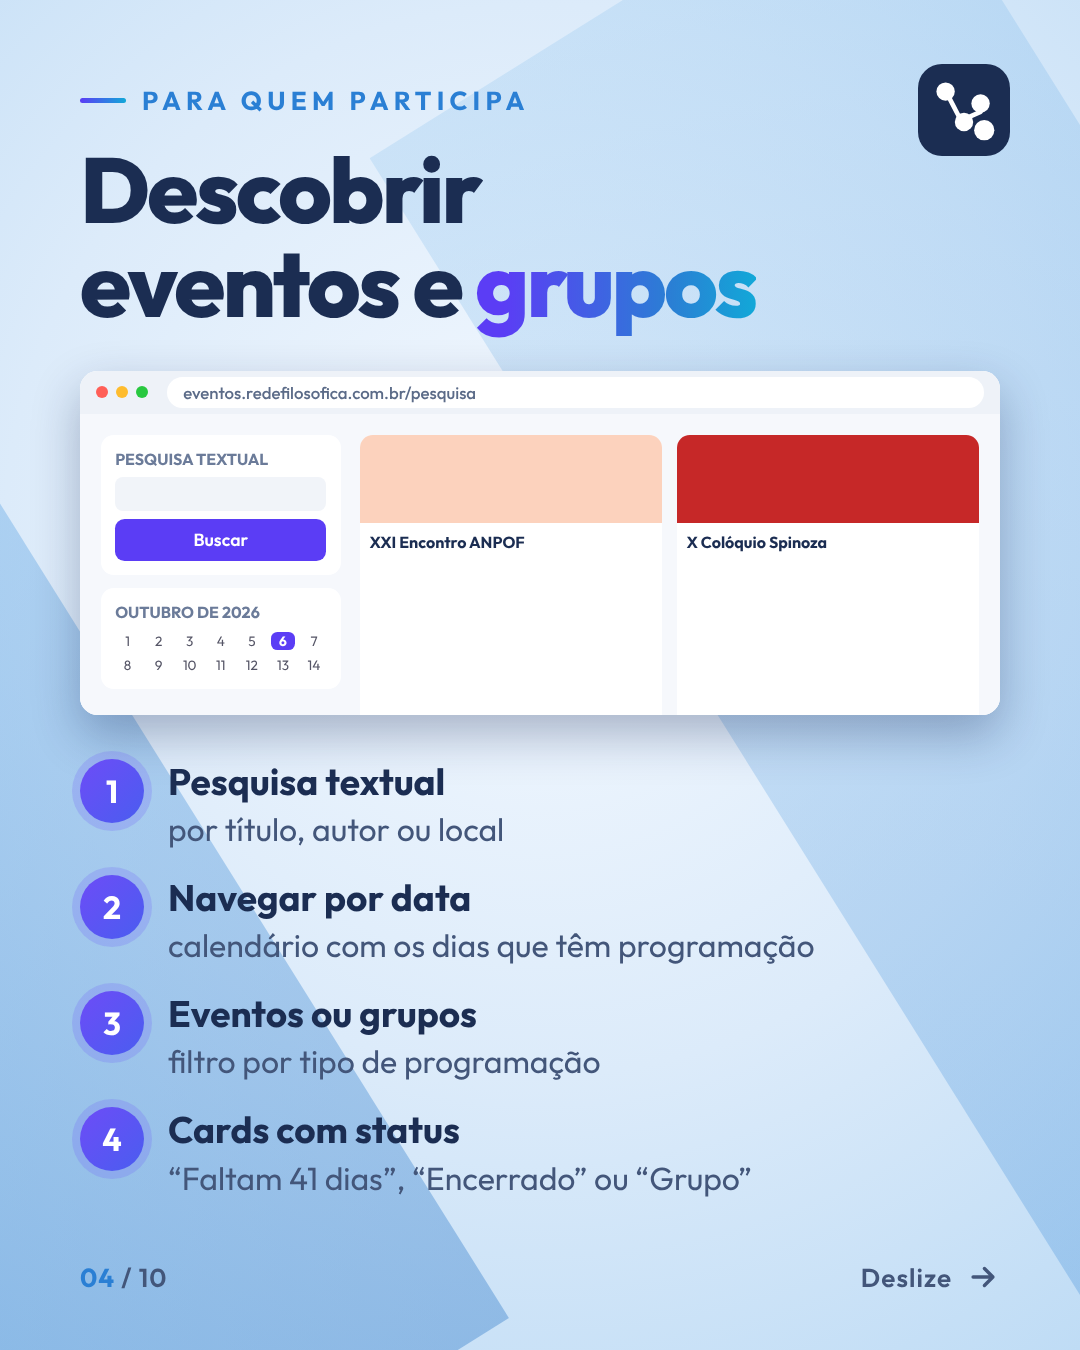
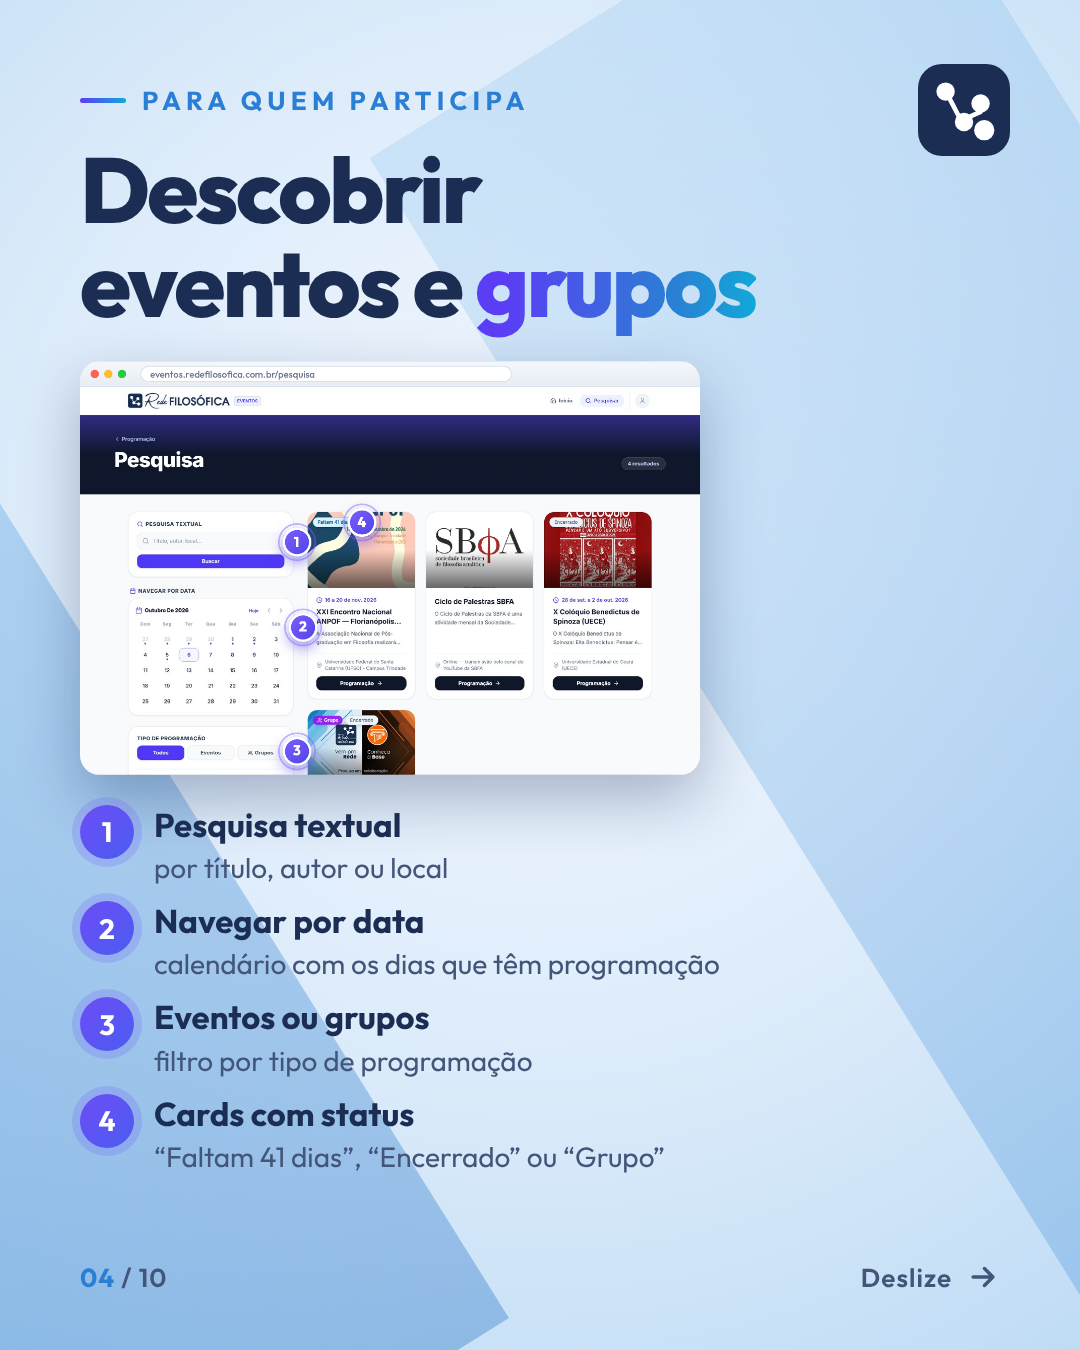
Use real screenshots from the PDF in Instagram cards
Claude-Session: https://claude.ai/code/session_01Jz58JXarE3aMUwPr4sMEcJ

Changed region(s): [[0.0611, 0.2489, 0.9472, 0.9022], [0.6111, 0.8711, 0.6722, 0.9022]]

diff --git a/rede-filosofica-instagram/cards.html b/rede-filosofica-instagram/cards.html
@@ -59,6 +59,7 @@ h2{font-size:92px;margin-top:26px}
 .bullets li{display:flex;gap:24px;align-items:flex-start;font-size:32px;line-height:1.25;color:var(--muted)}
 .bullets li b{color:var(--ink);font-weight:700;display:block;font-size:37px;margin-bottom:4px}
 .dark .bullets li{color:#b9c8e6}.dark .bullets li b{color:#fff}
+.sm li{font-size:28px!important;gap:20px!important}.sm li b{font-size:33px!important}.sm .num{width:54px;height:54px;font-size:28px}
 .bullets .dot{margin-top:18px;width:18px;height:18px}
 </style>
 </head>
@@ -83,20 +84,7 @@ h2{font-size:92px;margin-top:26px}
     <div class="eyebrow" style="justify-content:center;margin-top:36px">Rede Filosófica</div>
     <h1 style="font-size:130px;margin-top:20px;letter-spacing:-.04em;line-height:.98">Plataforma<br>de <span class="g">Eventos</span></h1>
     <p style="font-size:40px;font-weight:500;color:#2d4274;margin-top:34px">A pesquisa acadêmica de Filosofia<br>em tempo real</p>
-    <!-- phone + browser -->
-    <div style="position:absolute;left:150px;right:150px;top:830px;height:480px">
-      <div class="win" style="position:absolute;left:230px;right:0;top:20px;height:560px;">
-        <div class="bar"><i></i><i></i><i></i><span>eventos.redefilosofica.com.br</span></div>
-        <div style="background:linear-gradient(180deg,#171d5c,#0d1240);height:130px;padding:34px 40px;color:#fff;text-align:left"><div class="mini" style="color:#9aa8e0">Programação</div><div style="font-size:42px;font-weight:700">Pesquisa</div></div>
-      </div>
-      <div style="position:absolute;left:0;top:0;width:290px;height:600px;border:10px solid #1b2d52;border-radius:46px;background:#fff;box-shadow:0 26px 60px rgba(10,30,80,.4);overflow:hidden;text-align:left;padding:20px">
-        <div style="font-weight:800;font-size:22px;color:var(--navy)">Rede FILOSÓFICA <span class="tag" style="font-size:12px;padding:3px 8px">EVENTOS</span></div>
-        <div style="margin-top:20px;border-radius:14px;background:#fcd2bd;height:150px;position:relative;overflow:hidden"><div style="position:absolute;left:-30px;top:20px;width:130px;height:120px;border-radius:50%;background:#1f4e6e"></div><div style="position:absolute;right:12px;top:24px;font-size:13px;font-weight:700;color:#1d4e3c;text-align:right">16 a 20 de<br>novembro de 2026</div></div>
-        <div class="tag" style="margin-top:14px;font-size:14px;background:#dff2fb;color:#14688f">Faltam 41 dias</div>
-        <div style="font-weight:800;font-size:22px;line-height:1.15;margin-top:10px">XXI Encontro Nacional ANPOF — Florianópolis 2026</div>
-      </div>
-    </div>
-    
+    <img src="src/hero.png" style="position:absolute;left:190px;top:800px;width:700px">
   </div>
 </section>
 
@@ -126,15 +114,15 @@ h2{font-size:92px;margin-top:26px}
     <h2>Três formatos,<br>uma mesma<br><span class="g">plataforma</span></h2>
     <div style="display:flex;flex-direction:column;gap:24px;margin-top:56px">
       <div class="panel" style="display:flex;gap:34px;align-items:center;padding:28px 36px">
-        <div style="width:230px;height:170px;border-radius:22px;background:#fcd2bd;position:relative;overflow:hidden;flex:none"><div style="position:absolute;left:-40px;top:30px;width:150px;height:150px;border-radius:50%;background:#1f4e6e"></div><div style="position:absolute;right:14px;top:18px;font-size:17px;font-weight:700;color:#1d4e3c;text-align:right">16 a 20 nov.<br>UFSC</div></div>
+        <img src="src/t1.png" style="width:230px;height:170px;object-fit:cover;border-radius:22px;flex:none">
         <div><span class="pill" style="background:#f59e0b">Evento</span><h3 style="font-size:40px;font-weight:700;margin:12px 0 6px;line-height:1.1">XXI Encontro Nacional ANPOF</h3><p style="font-size:29px;color:var(--muted);line-height:1.25"><b class="g" style="font-size:40px">53</b> atividades em 5 dias, em Florianópolis</p></div>
       </div>
       <div class="panel" style="display:flex;gap:34px;align-items:center;padding:28px 36px">
-        <div style="width:230px;height:170px;border-radius:22px;background:#f3f3f3;display:grid;place-items:center;flex:none;font-family:Georgia,serif;font-size:50px;white-space:nowrap;color:#222">SB<span style="color:#b01c1c">ϕ</span>A</div>
+        <img src="src/t2.png" style="width:230px;height:170px;object-fit:cover;border-radius:22px;flex:none">
         <div><span class="pill" style="background:#12a8d8">Ciclo contínuo</span><h3 style="font-size:40px;font-weight:700;margin:12px 0 6px;line-height:1.1">Ciclo de Palestras SBFA</h3><p style="font-size:29px;color:var(--muted);line-height:1.25">Online no YouTube · <b class="g" style="font-size:40px">46</b> palestras ao longo de anos</p></div>
       </div>
       <div class="panel" style="display:flex;gap:34px;align-items:center;padding:28px 36px">
-        <div style="width:230px;height:170px;border-radius:22px;background:linear-gradient(90deg,#cfe3f7 50%,#1c1c1c 50%);display:grid;place-items:center;flex:none"><svg style="width:70px;height:70px"><use href="#lg"/></svg></div>
+        <img src="src/t3.png" style="width:230px;height:170px;object-fit:cover;border-radius:22px;flex:none">
         <div><span class="pill" style="background:#7c3aed">Grupo</span><h3 style="font-size:40px;font-weight:700;margin:12px 0 6px;line-height:1.1">Grupo de Colaboração</h3><p style="font-size:29px;color:var(--muted);line-height:1.25">Online · Google Meet · <b class="g" style="font-size:40px">6</b> membros e inscrição com voucher</p></div>
       </div>
     </div>
@@ -148,22 +136,8 @@ h2{font-size:92px;margin-top:26px}
   <div class="in">
     <div class="eyebrow">Para quem participa</div>
     <h2>Descobrir<br>eventos e <span class="g">grupos</span></h2>
-    <div class="win" style="zoom:.8;margin-top:50px;height:430px">
-      <div class="bar"><i></i><i></i><i></i><span>eventos.redefilosofica.com.br/pesquisa</span></div>
-      <div style="display:flex;gap:24px;padding:26px;background:#f6f8fc;height:100%">
-        <div style="width:300px;display:flex;flex-direction:column;gap:16px">
-          <div style="background:#fff;border-radius:16px;padding:18px"><div class="mini" style="font-weight:700">PESQUISA TEXTUAL</div><div style="background:#f1f4f9;border-radius:10px;height:42px;margin:10px 0"></div><div class="btnp" style="width:100%;text-align:center">Buscar</div></div>
-          <div style="background:#fff;border-radius:16px;padding:18px"><div class="mini" style="font-weight:700">OUTUBRO DE 2026</div>
-            <div style="display:grid;grid-template-columns:repeat(7,1fr);gap:8px;margin-top:12px;font-size:17px;text-align:center;color:#556">
-              <span>1</span><span>2</span><span>3</span><span>4</span><span>5</span><b style="background:#5b3df5;color:#fff;border-radius:8px">6</b><span>7</span><span>8</span><span>9</span><span>10</span><span>11</span><span>12</span><span>13</span><span>14</span></div></div>
-        </div>
-        <div style="flex:1;display:grid;grid-template-columns:1fr 1fr;gap:18px">
-          <div style="background:#fff;border-radius:16px;overflow:hidden"><div style="height:110px;background:#fcd2bd"></div><div style="padding:12px;font-weight:700;font-size:20px">XXI Encontro ANPOF</div></div>
-          <div style="background:#fff;border-radius:16px;overflow:hidden"><div style="height:110px;background:#c62828"></div><div style="padding:12px;font-weight:700;font-size:20px">X Colóquio Spinoza</div></div>
-        </div>
-      </div>
-    </div>
-    <ul class="bullets" style="gap:26px;margin-top:44px">
+    <img src="src/search.png" style="width:620px;margin-top:30px;border-radius:20px;box-shadow:0 24px 60px rgba(10,30,80,.3);display:block">
+    <ul class="bullets sm" style="gap:16px;margin-top:30px">
       <li><span class="num">1</span><span><b>Pesquisa textual</b>por título, autor ou local</span></li>
       <li><span class="num">2</span><span><b>Navegar por data</b>calendário com os dias que têm programação</span></li>
       <li><span class="num">3</span><span><b>Eventos ou grupos</b>filtro por tipo de programação</span></li>
@@ -179,21 +153,13 @@ h2{font-size:92px;margin-top:26px}
   <div class="in">
     <div class="eyebrow">Capa do evento ou grupo</div>
     <h2>Toda a informação<br>em <span class="g">uma página</span></h2>
-    <div class="win" style="zoom:.8;margin-top:48px">
-      <div class="bar"><i></i><i></i><i></i><span>eventos.redefilosofica.com.br/e/xxi-encontro-nacional-anpof</span></div>
-      <div style="padding:26px 30px;background:#f6f8fc">
-        <div style="background:#fff;border-radius:16px;padding:16px;display:flex;gap:10px;font-size:20px;font-weight:600"><span class="btnp" style="padding:8px 18px">Início</span><span style="padding:8px 18px">Programação</span><span style="padding:8px 18px">Cronograma</span></div>
-        <div style="background:#fff;border-radius:16px;margin-top:16px;padding:22px;display:flex;gap:22px;align-items:center">
-          <div style="width:150px;height:150px;border-radius:16px;background:#fcd2bd;position:relative;overflow:hidden;flex:none"><div style="position:absolute;left:-30px;top:30px;width:100px;height:100px;border-radius:50%;background:#1f4e6e"></div></div>
-          <div><span class="tag" style="background:#dff2fb;color:#14688f">Faltam 41 dias</span><div style="font-size:30px;font-weight:800;line-height:1.1;margin:10px 0 6px">XXI Encontro Nacional ANPOF — Florianópolis 2026</div><div class="mini">16 a 20 nov. 2026 · UFSC — Campus Trindade</div></div>
-        </div>
-        <div style="background:#fff;border-radius:16px;margin-top:16px;padding:18px 22px;display:flex;justify-content:space-between;align-items:center"><div><span class="tag">Próxima atividade</span><div style="font-size:28px;font-weight:700;margin-top:6px">Credenciamento</div></div><span class="btnp">Ver detalhes</span></div>
-      </div>
-    </div>
-    <ul class="bullets" style="gap:26px;margin-top:48px">
-      <li><span class="num">1</span><span><b>Identidade do evento</b>logomarca, título, organização, data e local</span></li>
-      <li><span class="num">2</span><span><b>Contagem regressiva e próxima atividade</b>com acesso direto aos detalhes</span></li>
-      <li><span class="num">3</span><span><b>Sobre e informações</b>descrição, endereço, links e arquivos</span></li>
+    <img src="src/capa.png" style="width:540px;margin-top:30px;border-radius:20px;box-shadow:0 24px 60px rgba(10,30,80,.3);display:block">
+    <ul class="bullets sm" style="gap:16px;margin-top:30px">
+      <li><span class="num">1</span><span><b>Navegação interna</b>Início, Programação, Cronograma e Inscrição</span></li>
+      <li><span class="num">2</span><span><b>Identidade do evento</b>logomarca, título, organização, data e local</span></li>
+      <li><span class="num">3</span><span><b>Contagem regressiva</b>“Faltam 41 dias”</span></li>
+      <li><span class="num">4</span><span><b>Próxima atividade</b>em destaque, com acesso direto aos detalhes</span></li>
+      <li><span class="num">5</span><span><b>Sobre e informações</b>descrição, endereço, links e arquivos</span></li>
     </ul>
     <div class="foot"><span><b>05</b> / 10</span><span class="swipe">Deslize <svg><use href="#arrow"/></svg></span></div>
   </div>
@@ -205,25 +171,12 @@ h2{font-size:92px;margin-top:26px}
   <div class="in">
     <div class="eyebrow">Programação e cronograma</div>
     <h2>Filtros que<br>ajudam a <span class="g">escolher</span></h2>
-    <div class="win" style="zoom:.8;margin-top:48px">
-      <div class="bar"><i></i><i></i><i></i><span>Cronograma · Semana</span></div>
-      <div style="padding:22px 26px;background:#fff">
-        <div style="display:flex;gap:14px;margin-bottom:18px">
-          <span class="btnp" style="padding:10px 20px">16 nov</span><span class="tag" style="background:#f1f4f9;color:#445">17</span><span class="tag" style="background:#f1f4f9;color:#445">18</span><span class="tag" style="background:#f1f4f9;color:#445">19</span><span class="tag" style="background:#f1f4f9;color:#445">20</span>
-        </div>
-        <div style="display:grid;grid-template-columns:repeat(5,1fr);gap:12px;height:250px">
-          <div style="background:#7c3aed;border-radius:10px;color:#fff;font-size:18px;padding:10px;font-weight:600;display:flex;align-items:end">Credenciamento</div>
-          <div style="display:flex;flex-direction:column;gap:12px"><div style="background:#7c3aed;border-radius:10px;height:150px;color:#fff;font-size:17px;padding:10px;font-weight:600">Encontros de GTs</div></div>
-          <div style="background:#7c3aed;border-radius:10px;height:190px;color:#fff;font-size:17px;padding:10px;font-weight:600">Minicurso: Realismo…</div>
-          <div style="background:#7c3aed;border-radius:10px;height:110px;color:#fff;font-size:17px;padding:10px;font-weight:600">Reunião Anpof-Capes</div>
-          <div style="background:#e11d48;border-radius:10px;height:70px;margin-top:70px;color:#fff;font-size:17px;padding:10px;font-weight:600">Conferência</div>
-        </div>
-      </div>
-    </div>
-    <ul class="bullets" style="gap:26px;margin-top:48px">
+    <img src="src/prog.png" style="width:620px;margin-top:30px;border-radius:20px;box-shadow:0 24px 60px rgba(10,30,80,.3);display:block">
+    <ul class="bullets sm" style="gap:16px;margin-top:30px">
       <li><span class="num">1</span><span><b>Busca e filtros</b>texto livre, categorias, roteiros e curtidas</span></li>
-      <li><span class="num">2</span><span><b>Dia, semana ou mês</b>três escalas para ver o evento todo ou só o seu percurso</span></li>
-      <li><span class="num">3</span><span><b>Curtir, lembrar, adicionar</b>monte o seu roteiro personalizado</span></li>
+      <li><span class="num">2</span><span><b>Um dia de cada vez</b>paginação por dia do evento</span></li>
+      <li><span class="num">3</span><span><b>Cartão da atividade</b>horário, categoria, título e descrição</span></li>
+      <li><span class="num">4</span><span><b>Curtir, lembrar, adicionar</b>monte o seu roteiro personalizado</span></li>
     </ul>
     <div class="foot"><span><b>06</b> / 10</span><span class="swipe">Deslize <svg><use href="#arrow"/></svg></span></div>
   </div>
@@ -235,24 +188,9 @@ h2{font-size:92px;margin-top:26px}
   <div class="in">
     <div class="eyebrow">Em qualquer tela</div>
     <h2>A mesma<br>experiência<br>no <span class="g">celular</span></h2>
-    <div style="display:flex;gap:34px;margin-top:56px;justify-content:center;align-items:flex-start">
-      <!-- phone A: atividade -->
-      <div style="width:400px;height:640px;border:12px solid #0b1430;border-radius:54px;background:#fff;overflow:hidden;box-shadow:0 0 0 3px #2b3d6e,0 30px 70px rgba(0,0,0,.5);color:var(--ink);padding:26px">
-        <span class="tag">Palestra</span> <span class="tag" style="background:#ffe3e8;color:#c4113b">Online</span>
-        <div style="font-size:27px;font-weight:800;line-height:1.15;margin:16px 0">Santiago Echeverri — “El disyuntivismo epistemológico y el problema de la inducción”</div>
-        <div style="background:#f3f5fa;border-radius:16px;padding:16px 18px;font-size:19px;line-height:1.5;color:#445"><b>5 de outubro de 2026, 18h às 20h</b><br>Online — YouTube da SBFA<br>Palestrante: Santiago Echeverri (UNAM)</div>
-        <div style="background:#ffe9ee;border-radius:18px;padding:18px;margin-top:22px"><div style="font-size:18px;color:#a3103a;font-weight:600">Transmissão/Sala Online</div><div style="background:#e11d48;color:#fff;border-radius:12px;text-align:center;padding:14px;font-weight:700;font-size:22px;margin-top:10px">Participar/Assistir</div></div>
-      </div>
-      <!-- phone B: inscrição -->
-      <div style="width:400px;height:640px;border:12px solid #0b1430;border-radius:54px;background:#fff;overflow:hidden;box-shadow:0 0 0 3px #2b3d6e,0 30px 70px rgba(0,0,0,.5);color:var(--ink);padding:26px;margin-top:60px">
-        <span class="tag" style="background:#dcf7ea;color:#0a7a4d">Vagas disponíveis</span>
-        <div style="font-size:30px;font-weight:800;margin:20px 0 6px">Formulário de Inscrição</div>
-        <div class="mini" style="margin-bottom:18px">Preencha os dados para gerar seu voucher.</div>
-        <div class="mini" style="font-weight:700">Nome completo *</div><div style="background:#f1f4f9;border-radius:10px;height:46px;margin:6px 0 14px"></div>
-        <div class="mini" style="font-weight:700">E-mail *</div><div style="background:#f1f4f9;border-radius:10px;height:46px;margin:6px 0 14px"></div>
-        <div class="mini" style="font-weight:700">Telefone / WhatsApp</div><div style="background:#f1f4f9;border-radius:10px;height:46px;margin:6px 0 20px"></div>
-        <div style="background:#f59e0b;color:#fff;border-radius:12px;text-align:center;padding:14px;font-weight:700;font-size:21px">Confirmar e gerar voucher</div>
-      </div>
+    <div style="display:flex;gap:40px;margin-top:54px;justify-content:center;align-items:flex-start">
+      <img src="src/ph_ativ.png" style="width:330px;border-radius:52px;box-shadow:0 30px 70px rgba(0,0,0,.5)">
+      <img src="src/ph_insc.png" style="width:330px;border-radius:52px;box-shadow:0 30px 70px rgba(0,0,0,.5);margin-top:40px">
     </div>
     <div class="foot"><span><b>07</b> / 10</span><span class="swipe">Deslize <svg><use href="#arrow"/></svg></span></div>
   </div>
@@ -264,16 +202,14 @@ h2{font-size:92px;margin-top:26px}
   <div class="in">
     <div class="eyebrow">Inscrições</div>
     <h2>Do cadastro ao<br><span class="g">voucher</span><br>de confirmação</h2>
-    <ul class="bullets" style="gap:28px;margin-top:44px">
+    <ul class="bullets" style="gap:20px;margin-top:34px">
       <li><span class="dot"></span><span><b>Automática ou manual</b>confirmação imediata ou dependente do organizador</span></li>
       <li><span class="dot"></span><span><b>Submissão de trabalho</b>título, autores, resumo, palavras-chave e arquivo anexo</span></li>
       <li><span class="dot"></span><span><b>Vagas e lista de espera</b>com voucher de confirmação</span></li>
       <li><span class="dot"></span><span><b>Check-in e frequência</b>acompanhamento pelo organizador</span></li>
     </ul>
-    <div class="panel" style="margin-top:30px;display:flex;align-items:center;gap:26px;padding:24px 30px">
-      <span class="tag" style="background:#dcf7ea;color:#0a7a4d;font-size:24px;padding:10px 18px">Confirmação automática</span>
-      <span style="font-size:28px;font-weight:600;color:var(--ink)">Vagas abertas até 09/11/2026 às 20h</span>
-    </div>
+    <img src="src/form.png" style="width:420px;margin-top:30px;border-radius:20px;box-shadow:0 24px 60px rgba(10,30,80,.3);display:block">
+    <img src="src/orgins.png" style="position:absolute;right:60px;bottom:150px;width:420px;border-radius:20px;box-shadow:0 24px 60px rgba(10,30,80,.3);display:block">
     <div class="foot"><span><b>08</b> / 10</span><span class="swipe">Deslize <svg><use href="#arrow"/></svg></span></div>
   </div>
 </section>
@@ -285,13 +221,7 @@ h2{font-size:92px;margin-top:26px}
     <div class="eyebrow">Para quem organiza</div>
     <h2>A área<br><span class="g">administrativa</span></h2>
     <p class="lead">Cada organizador gerencia seus eventos e grupos em um painel próprio.</p>
-    <div class="win" style="zoom:.8;margin-top:46px">
-      <div class="bar"><i></i><i></i><i></i><span>/adm/eventos/… · Atividades</span></div>
-      <div style="padding:22px 26px;background:#f6f8fc;display:flex;flex-direction:column;gap:14px">
-        <div style="background:#fff;border-radius:14px;padding:16px 20px;border-left:6px solid #5b3df5"><div style="font-weight:700;font-size:25px">Os prazeres verdadeiros no Filebo de Platão</div><div class="mini" style="margin-top:4px"><span class="tag" style="background:#dcf7ea;color:#0a7a4d">Publicado</span> <span class="tag" style="background:#fff0d6;color:#9a5b00">Principal</span> <span class="tag">Mesa 1</span></div></div>
-        <div style="background:#fff;border-radius:14px;padding:16px 20px;border-left:6px solid #5b3df5"><div style="font-weight:700;font-size:25px">Daimon metaxý: a mediação pedagógica no advento da filosofia</div><div class="mini" style="margin-top:4px"><span class="tag" style="background:#dcf7ea;color:#0a7a4d">Publicado</span> <span class="tag">Mesa 1</span></div></div>
-      </div>
-    </div>
+    <img src="src/adm.png" style="width:620px;margin-top:30px;border-radius:20px;box-shadow:0 24px 60px rgba(10,30,80,.3);display:block">
     <ul class="bullets" style="gap:22px;margin-top:44px">
       <li><span class="num">1</span><span><b>Novo evento em poucos cliques</b>filtros por publicados e rascunhos</span></li>
       <li><span class="num">2</span><span><b>Arraste para reorganizar</b>mova atividades, entre dias, e ajuste a duração</span></li>
@@ -305,17 +235,14 @@ h2{font-size:92px;margin-top:26px}
 <section class="card light" id="c10">
   <div class="in" style="text-align:center">
     <svg style="width:120px;height:120px;margin-top:0;filter:drop-shadow(0 18px 24px rgba(20,40,90,.3))"><use href="#lg"/></svg>
-    <div class="panel" style="margin:34px auto 0;max-width:820px;padding:24px 36px;text-align:left;background:#0f2250;border:none;color:#fff">
-      <span class="pill" style="background:#f59e0b">Em breve</span>
-      <h3 style="font-size:46px;font-weight:800;margin:14px 0 8px;line-height:1.1">Transmissões e videoconferências</h3>
-      <p style="font-size:29px;color:#b9c8e6;line-height:1.35">Sala integrada à página do evento, transmissão ao vivo e chat sem sair da plataforma.</p>
-    </div>
-    <div class="eyebrow" style="justify-content:center;margin-top:40px">Participe</div>
-    <h1 style="font-size:130px;margin-top:14px;letter-spacing:-.04em">Vem pra <span class="g">Rede</span></h1>
-    <div style="display:flex;flex-direction:column;gap:14px;margin:36px auto 0;max-width:820px">
-      <div class="panel" style="padding:16px 34px;text-align:center"><div style="font-size:26px;color:var(--muted);font-weight:500">Plataforma de eventos</div><div style="font-size:38px;font-weight:700">eventos.redefilosofica.com.br</div></div>
-      <div class="panel" style="padding:16px 34px;text-align:center"><div style="font-size:26px;color:var(--muted);font-weight:500">No aplicativo</div><div style="font-size:38px;font-weight:700">m.redefilosofica.com.br/participar</div></div>
-      <div class="panel" style="padding:16px 34px;text-align:center"><div style="font-size:26px;color:var(--muted);font-weight:500">Portal</div><div style="font-size:38px;font-weight:700">redefilosofica.com.br</div></div>
+    <div style="margin:30px auto 0;max-width:820px;text-align:left"><span class="pill" style="background:#f59e0b">Em breve</span> <span style="font-size:34px;font-weight:800;margin-left:10px">Transmissões e videoconferências</span></div>
+    <img src="src/live.png" style="width:540px;margin-top:20px;border-radius:20px;box-shadow:0 24px 60px rgba(10,30,80,.3);display:block">
+    <div class="eyebrow" style="justify-content:center;margin-top:30px">Participe</div>
+    <h1 style="font-size:110px;margin-top:8px;letter-spacing:-.04em">Vem pra <span class="g">Rede</span></h1>
+    <div style="display:flex;flex-direction:column;gap:12px;margin:26px auto 0;max-width:820px">
+      <div class="panel" style="padding:10px 30px;text-align:center"><div style="font-size:26px;color:var(--muted);font-weight:500">Plataforma de eventos</div><div style="font-size:38px;font-weight:700">eventos.redefilosofica.com.br</div></div>
+      <div class="panel" style="padding:10px 30px;text-align:center"><div style="font-size:26px;color:var(--muted);font-weight:500">No aplicativo</div><div style="font-size:38px;font-weight:700">m.redefilosofica.com.br/participar</div></div>
+      <div class="panel" style="padding:10px 30px;text-align:center"><div style="font-size:26px;color:var(--muted);font-weight:500">Portal</div><div style="font-size:38px;font-weight:700">redefilosofica.com.br</div></div>
     </div>
     <div class="foot" style="justify-content:center"><span><b>10</b> / 10 · Rede Filosófica</span></div>
   </div>
